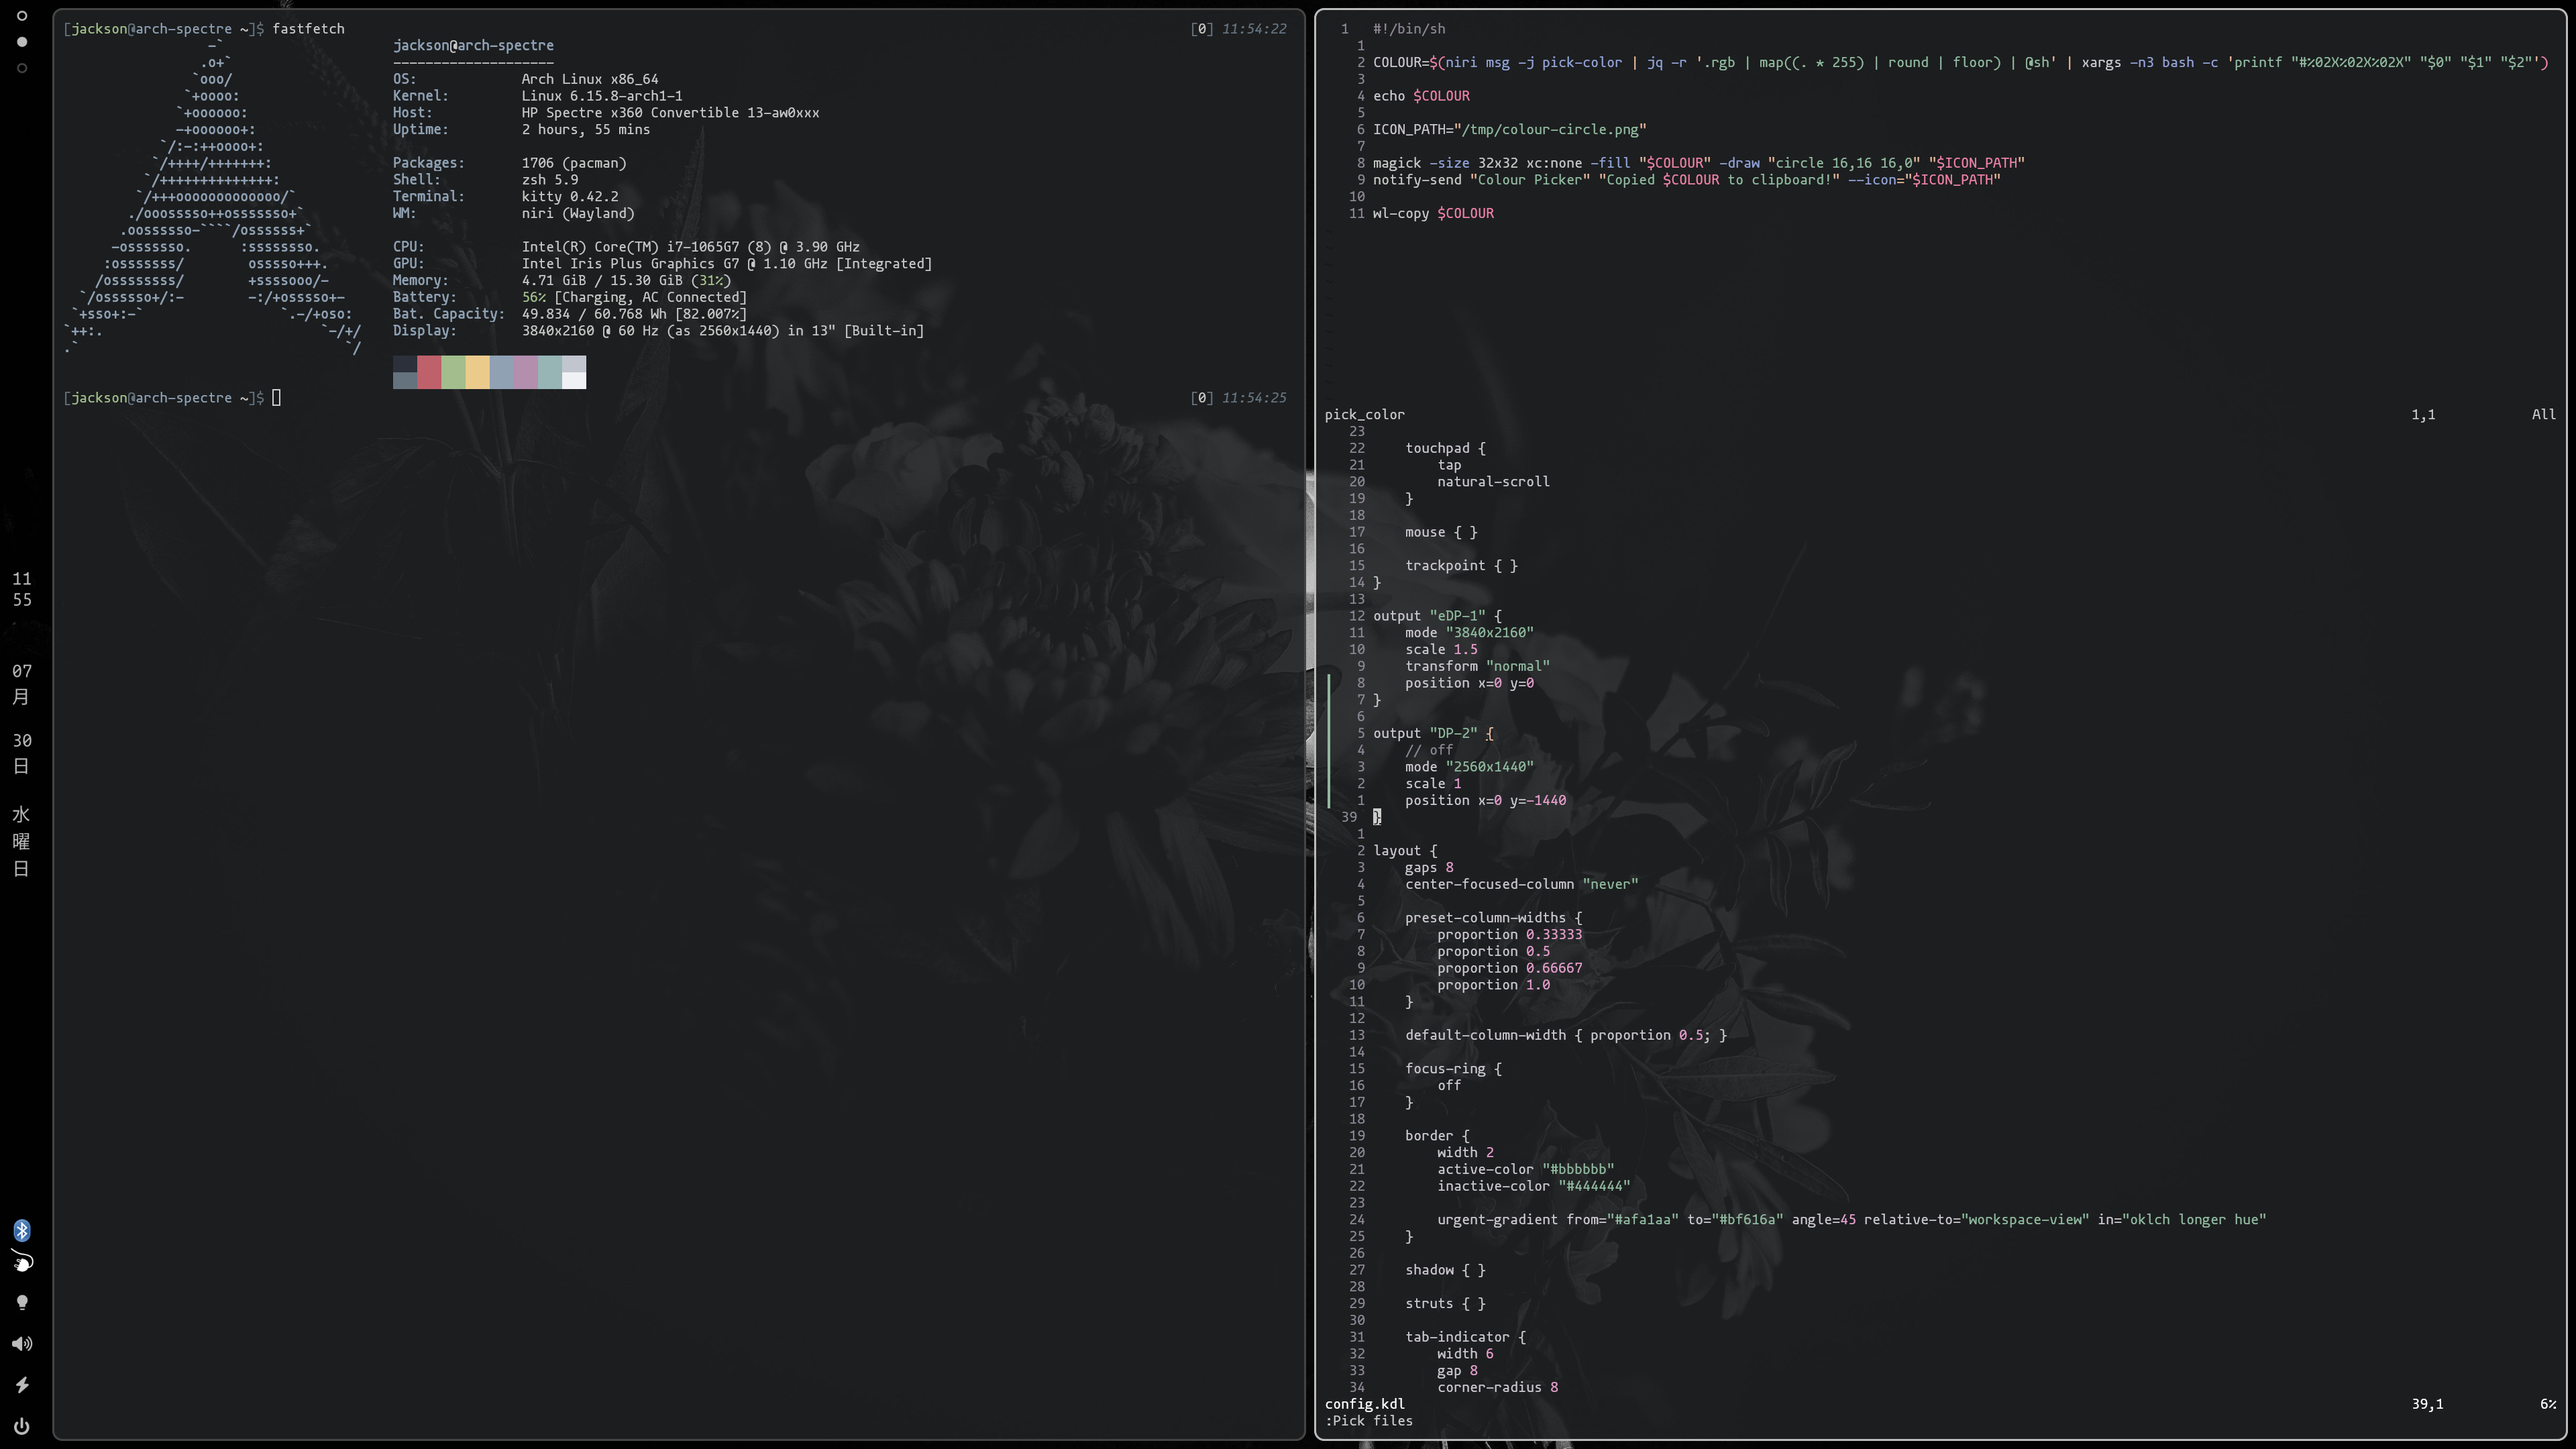
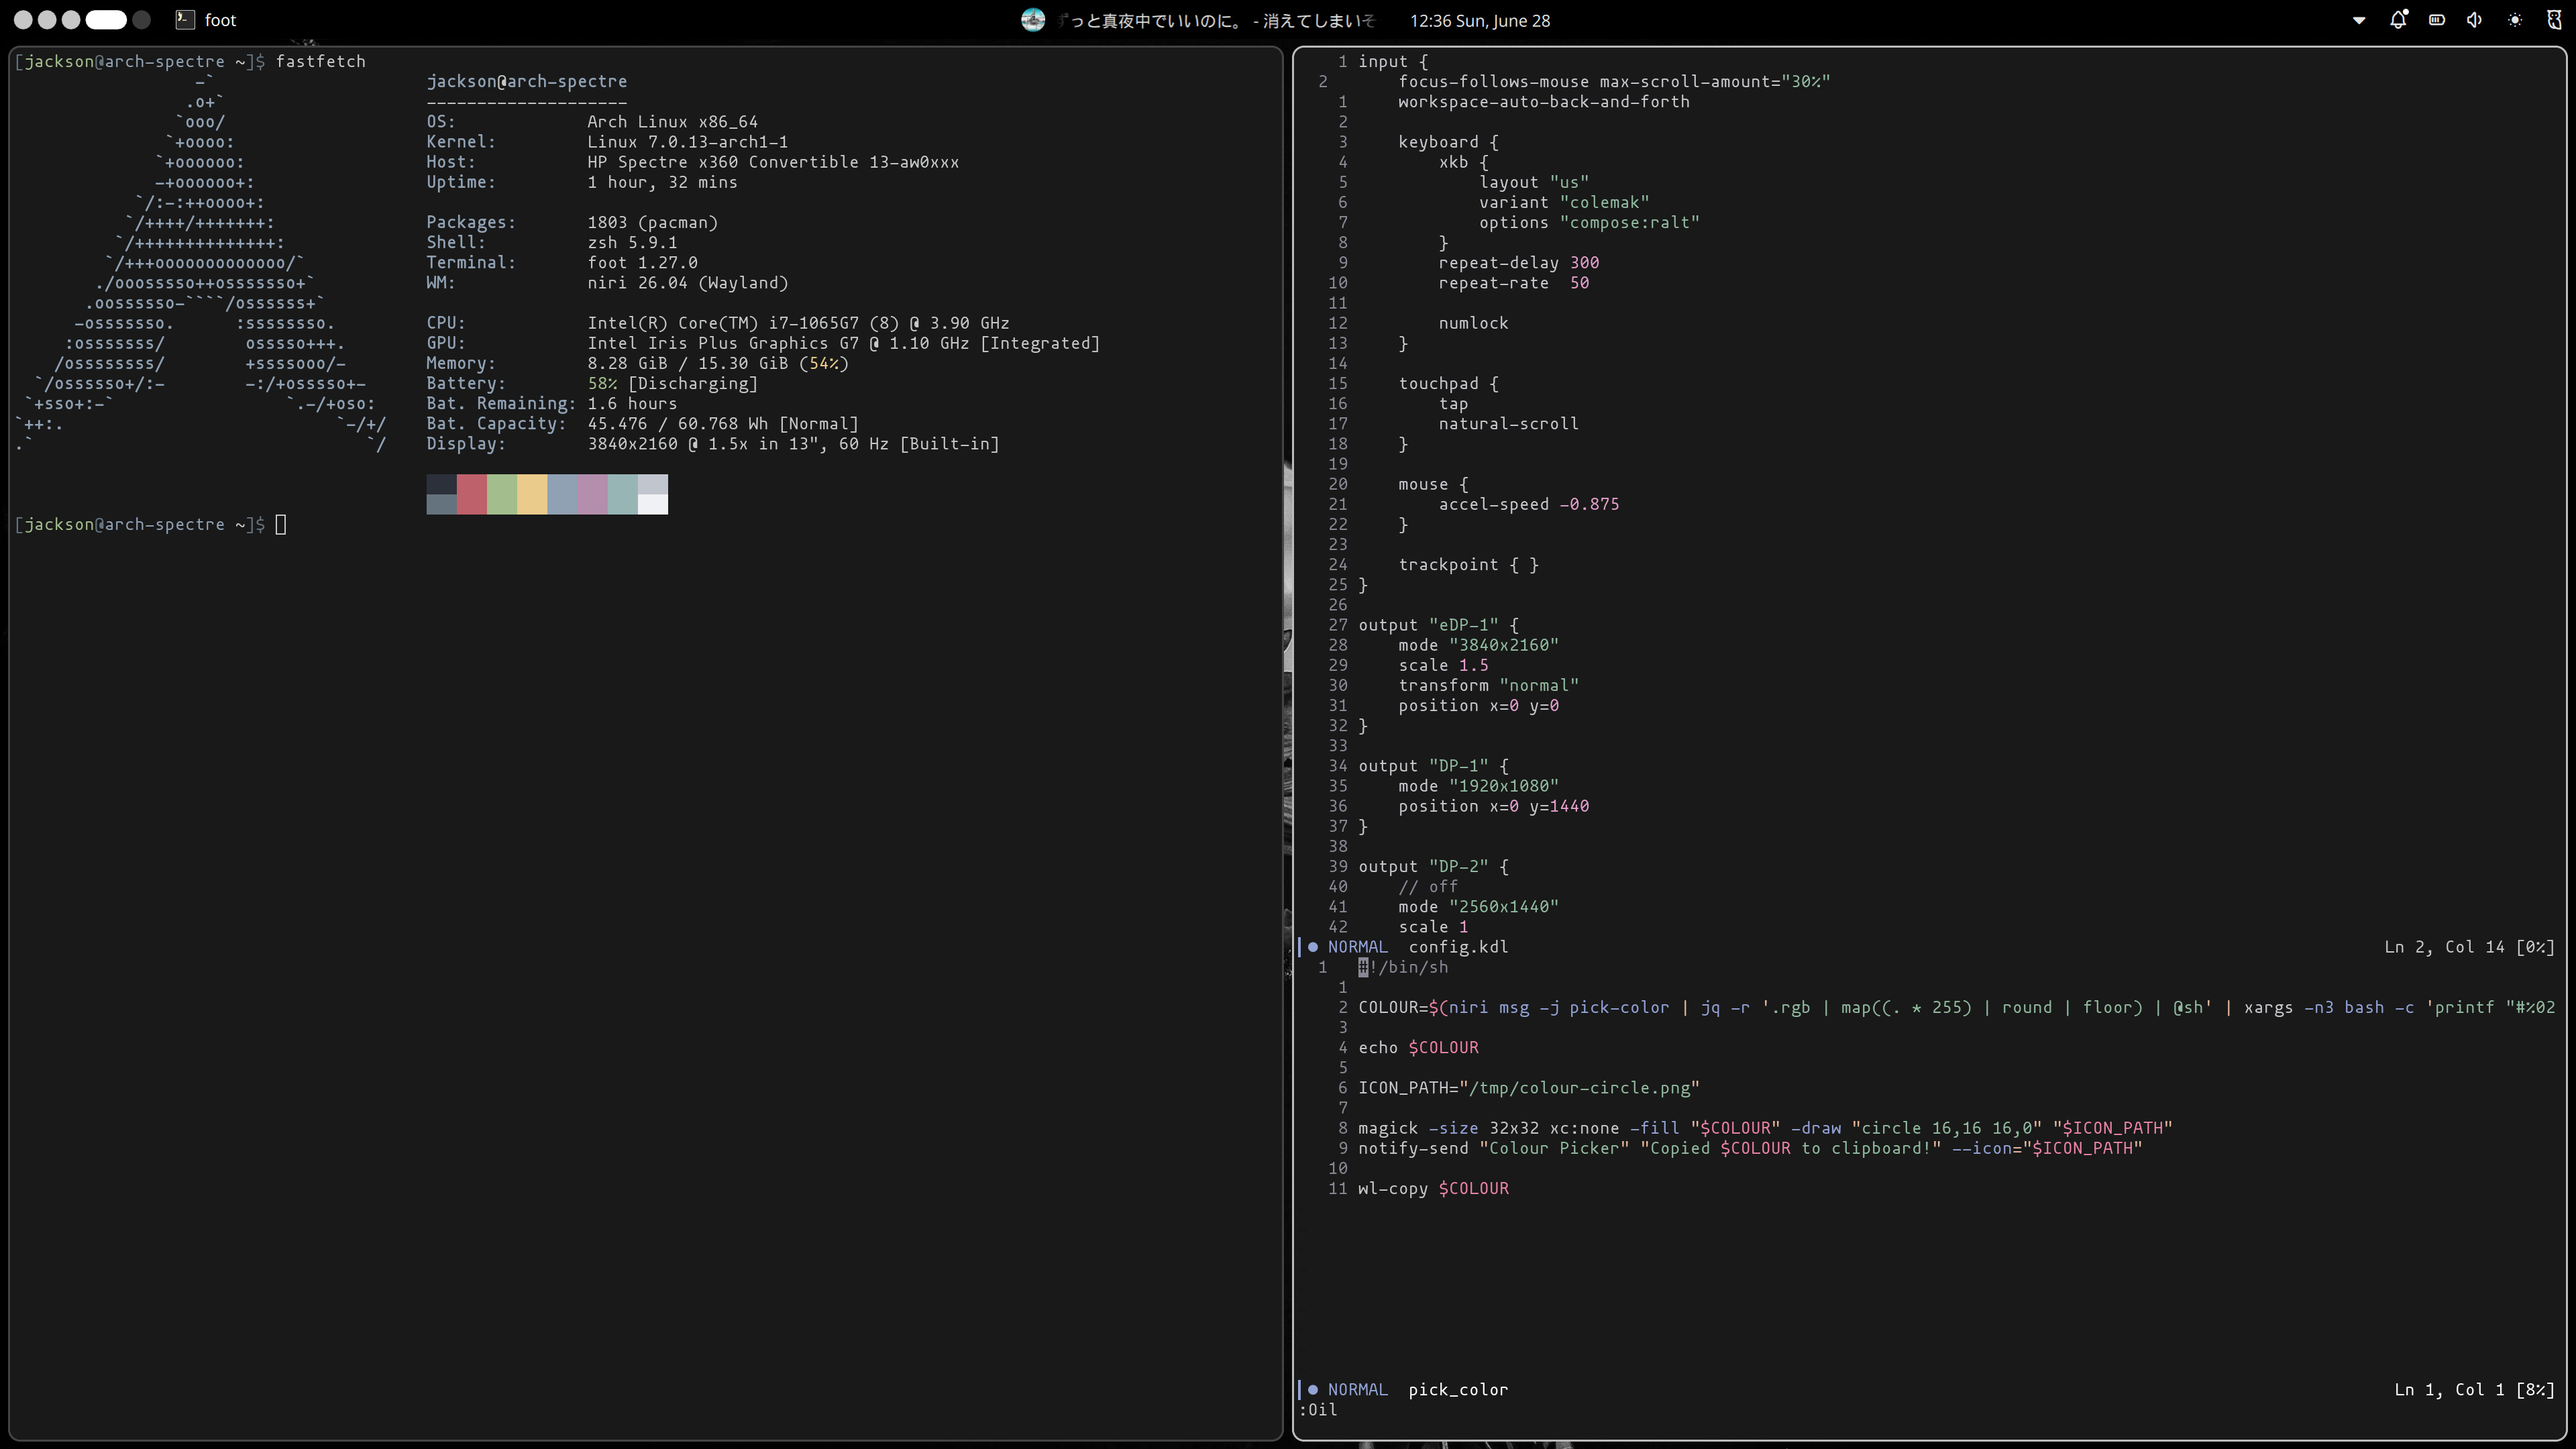
fix gallery

diff --git a/README.md b/README.md
@@ -6,6 +6,4 @@ I use `niri`.
 Uses the config found at [jumpyjacko/nvim](https://github.com/jumpyjacko/nvim).
 
 ## Gallery
-![niri_no_windows](./images/niri_no_windows.jpg)
 ![niri_main](./images/niri_main.jpg)
-![niri_overview](./images/niri_overview.jpg)
